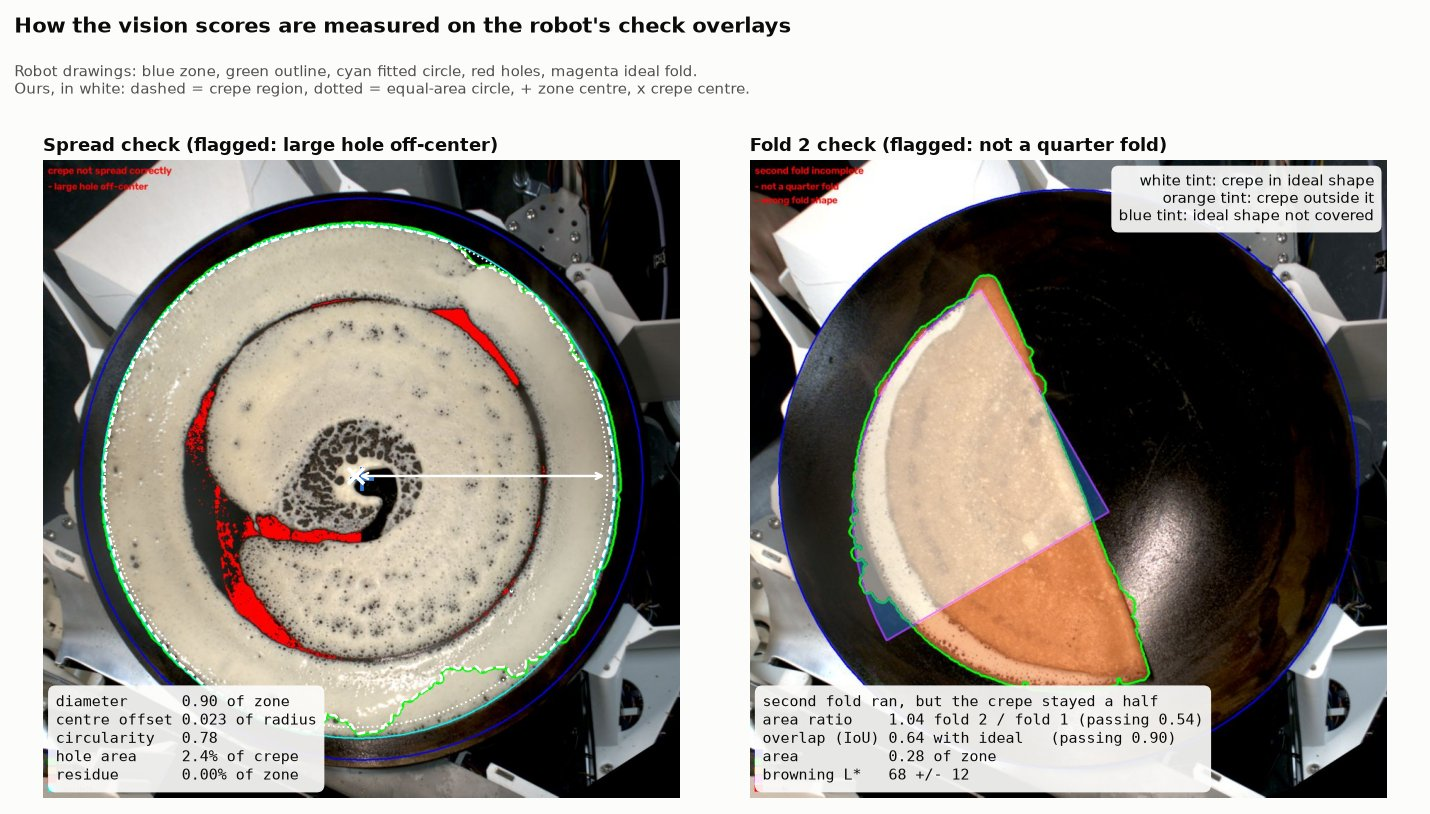
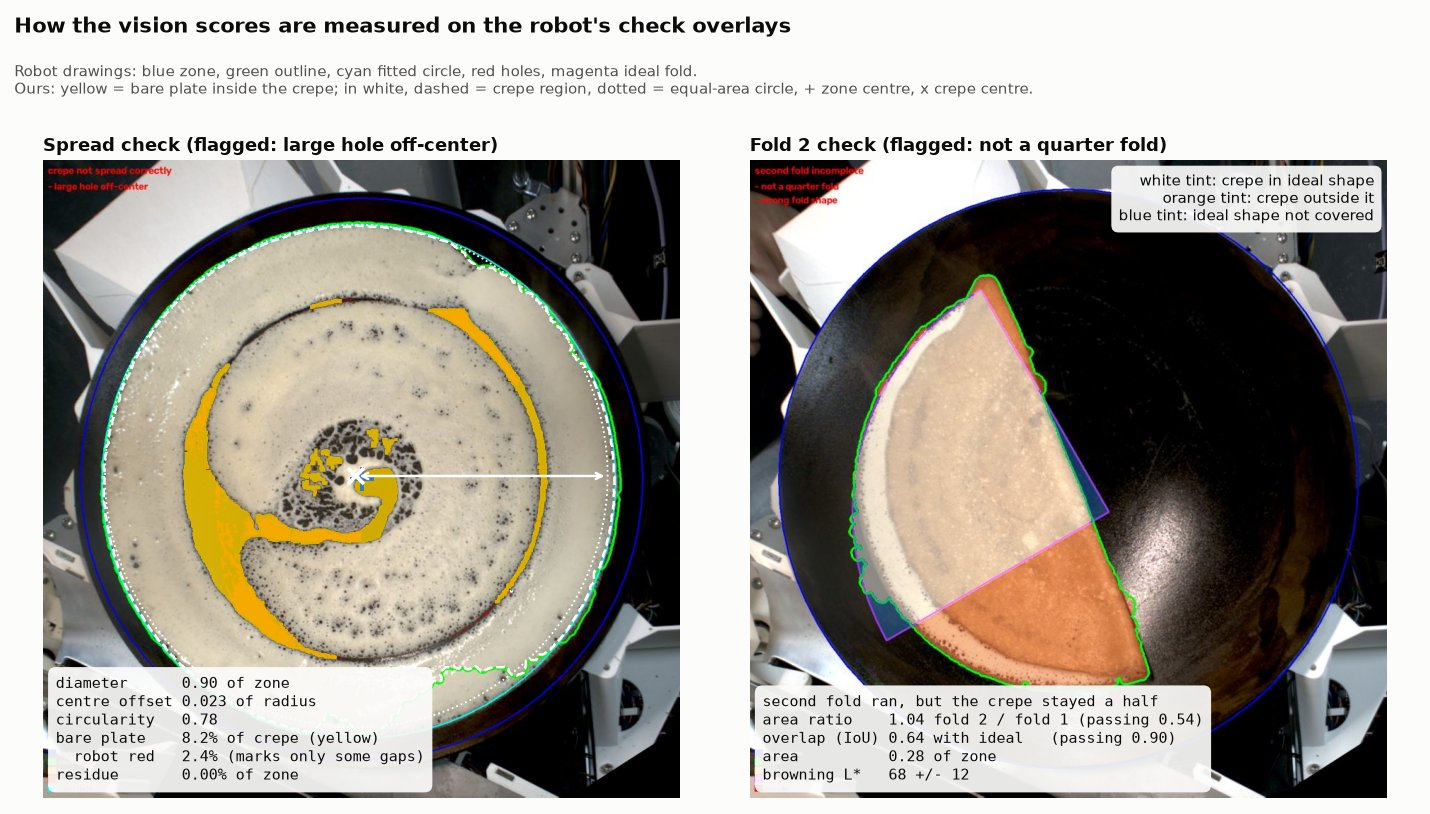
docs: show bare plate area in the readme example

diff --git a/readme.md b/readme.md
@@ -138,7 +138,7 @@ flowchart LR
 
 **What the vision scores measure.** The robot's check overlays already mark the crêpe outline, holes,
 residue and the ideal fold shape. `pixi run vision` reads those marks back as numbers per run (diameter,
-centre offset, hole area, fold overlap, fold-2/fold-1 area ratio, browning), so failures become measurable
+centre offset, bare plate inside the crêpe, fold overlap, fold-2/fold-1 area ratio, browning), so failures become measurable
 instead of only pass/fail. Columns in [documentation/pipeline.md](documentation/pipeline.md#vision-score-columns).
 
 ![Annotated spread and fold checks with the measured vision scores](assets/vision-scores-example.jpg)
